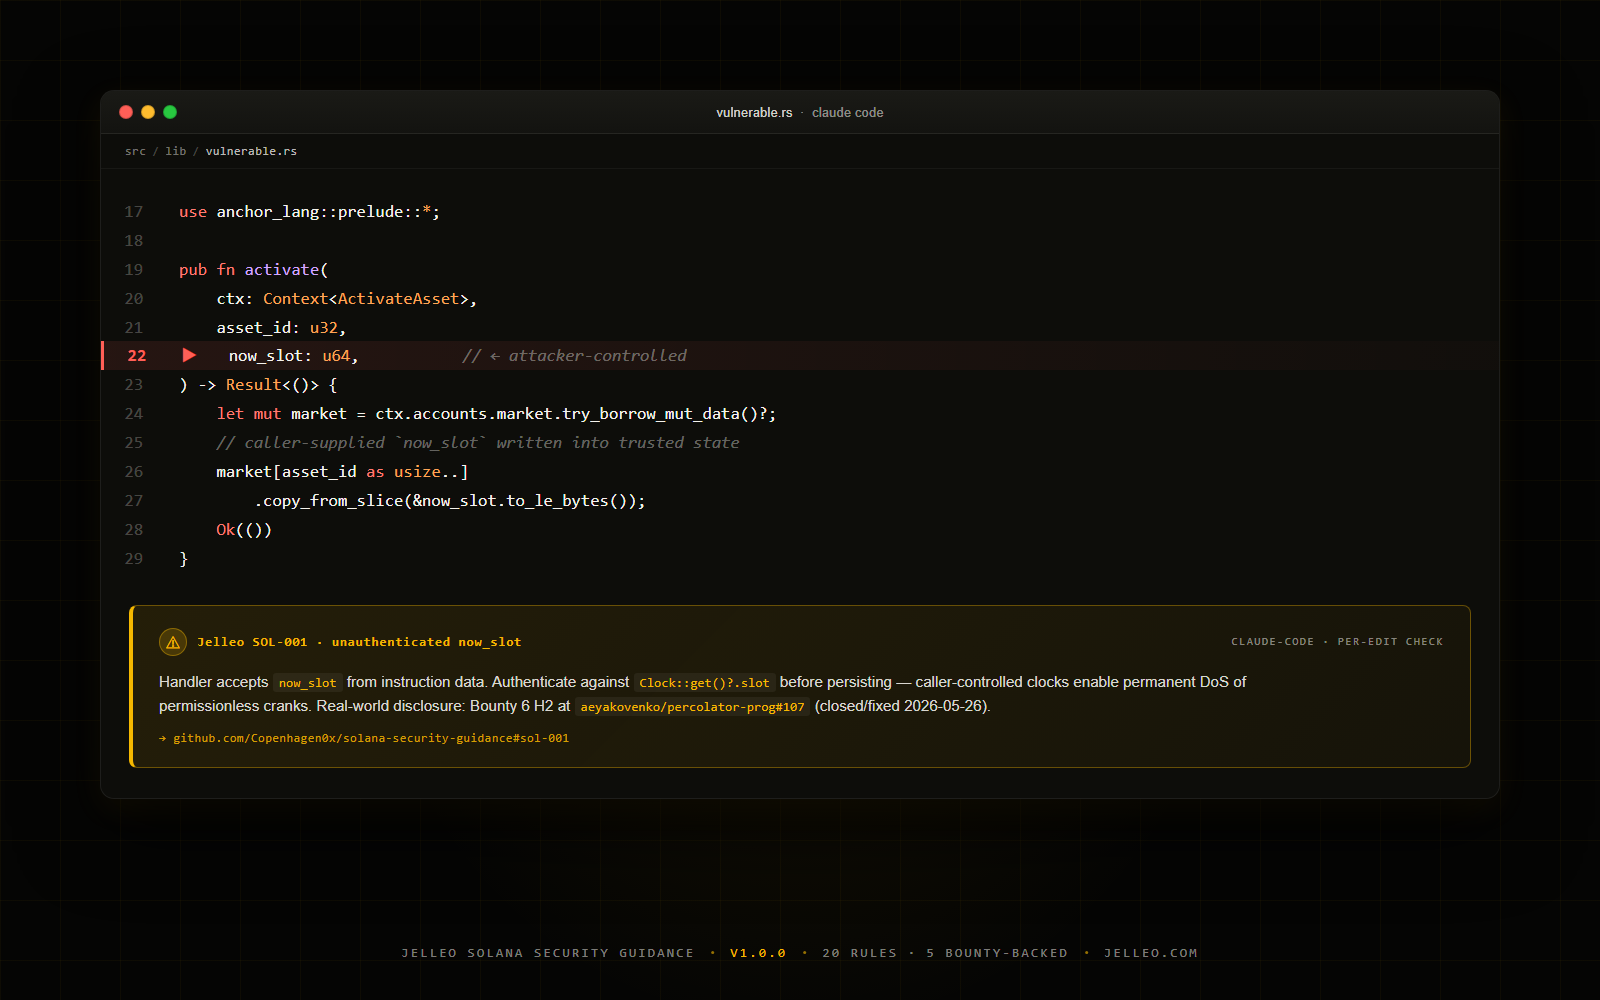
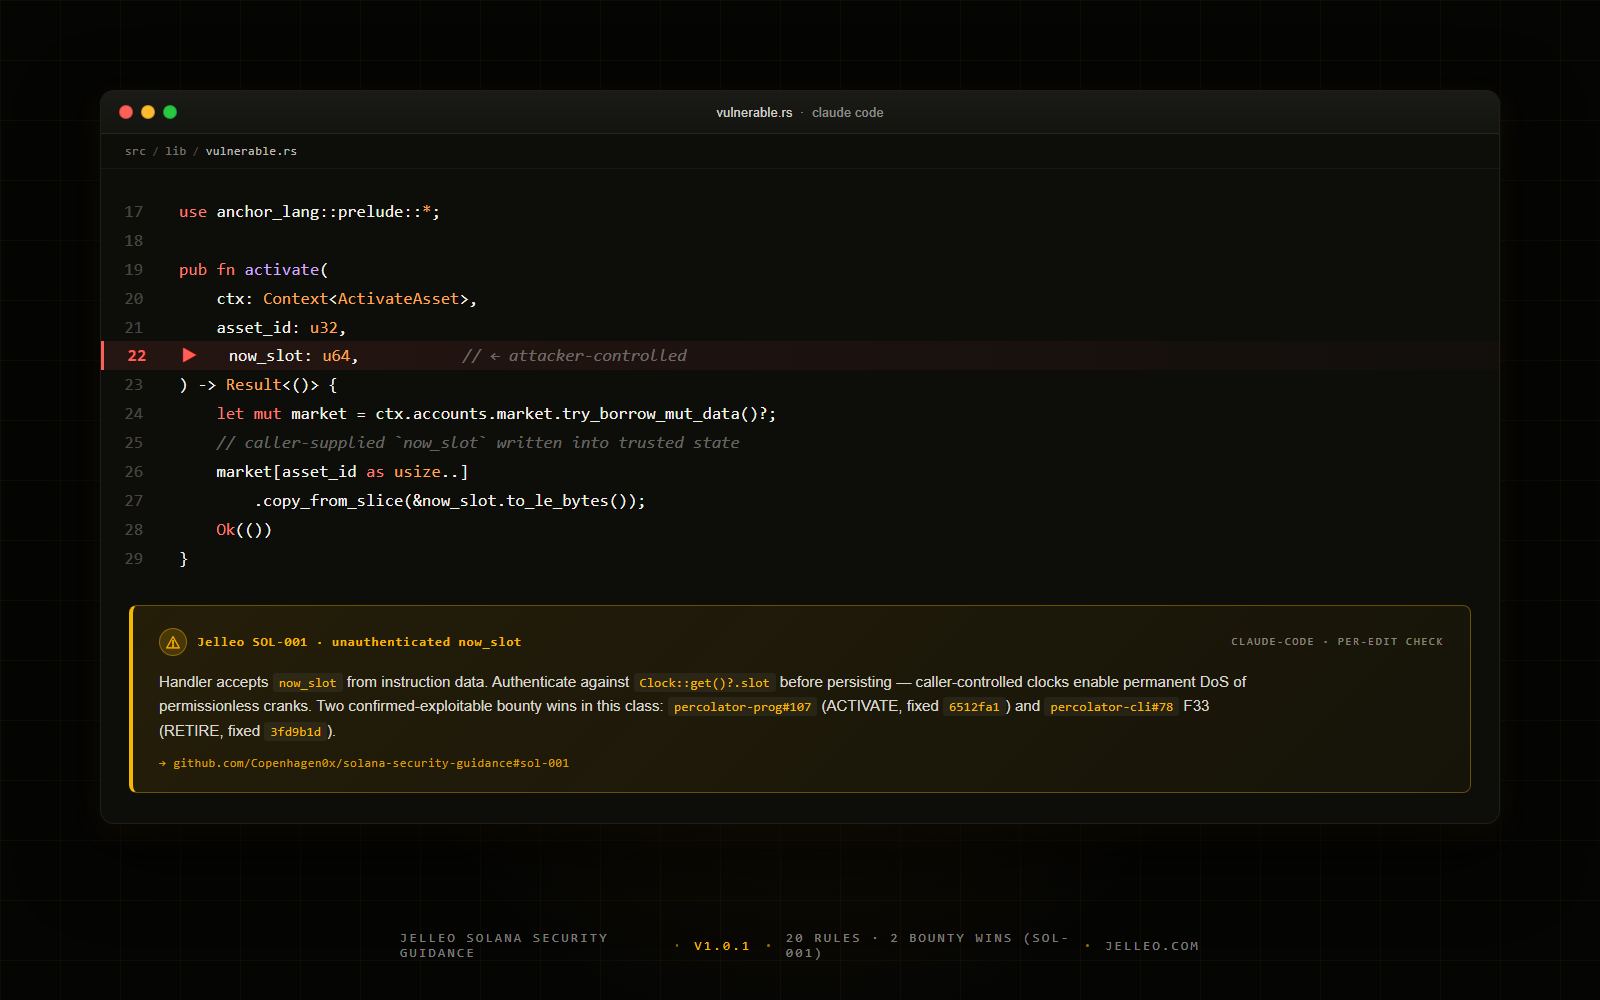
site: honest-provenance correction after Toly's #78 triage
Toly closed percolator-cli#78 on 2026-05-26T01:24Z with detailed triage.
1 of 36 confirmed-exploitable (F33, same class as #107 — SOL-001).
Others were already-fixed-in-flight (F1), engine-side (F2), or latent (F12).

Updated:
- guidance.html: rule table source column reflects triage outcomes
- guidance.html: Why-these-rules section rewritten with honest provenance
- guidance.html: KPI strip — '5 backed' → '2 confirmed bounty wins'
- guidance.html: install URL bumped from v1.0.0 → v1.0.1
- guidance.html: version stamp + nav status to v1.0.1
- guidance.html: hero lede dropped 'All 20 rules drawn from real disclosed
  bounty findings' (was over-claiming)
- methodology.html: cross-link callout updated similarly
- og-guidance.png + guidance-hero.png: regenerated demo now shows BOTH bounty
  wins (#107 ACTIVATE + #78 F33 RETIRE) instead of only #107

diff --git a/website/deploy/guidance.html b/website/deploy/guidance.html
@@ -163,7 +163,7 @@ code { font-family: var(--mono); font-size: 0.92em; }
   <div class="nav-right">
     <span class="nav-status">
       <span class="live-dot"></span>
-      Guidance · v1.0 · public
+      Guidance · v1.0.1 · public
     </span>
     <a href="/customer/" class="nav-portal">Customer portal</a>
     <a href="/integrate/" class="nav-cta">Request integration</a>
@@ -190,9 +190,9 @@ code { font-family: var(--mono); font-size: 0.92em; }
   <span class="hero-bracket br"></span>
   <div class="container">
     <div data-reveal>
-      <div class="hero-eyebrow">Solana security guidance · v1.0 · for Claude Code</div>
+      <div class="hero-eyebrow">Solana security guidance · v1.0.1 · for Claude Code</div>
       <h1 class="hero-title">Catch Solana bugs <span class="accent">as you write them.</span></h1>
-      <p class="hero-lede">A drop-in security ruleset for Anthropic's <a href="https://code.claude.com/docs/en/security-guidance" target="_blank" rel="noopener">Claude Code security-guidance plugin</a>. Two files into your <code>.claude/</code> folder and your IDE flags Solana-specific bug classes while you code — caller-controlled clock values, cross-market state asymmetry, wrapper handlers that drift from engine logic, missing Anchor constraints, and 16 more. All 20 rules drawn from real disclosed bounty findings.</p>
+      <p class="hero-lede">A drop-in security ruleset for Anthropic's <a href="https://code.claude.com/docs/en/security-guidance" target="_blank" rel="noopener">Claude Code security-guidance plugin</a>. Two files into your <code>.claude/</code> folder and your IDE flags Solana-specific bug classes while you code — caller-controlled clock values, cross-market state asymmetry, wrapper handlers that drift from engine logic, missing Anchor constraints, and 16 more. SOL-001 covers two confirmed-exploitable bounty wins; the other 19 rules are documented Solana audit patterns.</p>
 
       <figure class="hero-demo" data-reveal data-delay="1" style="margin: 36px 0 8px; max-width: 1080px;">
         <img src="/guidance-hero.png"
@@ -207,9 +207,9 @@ code { font-family: var(--mono); font-size: 0.92em; }
       <div class="install-block" data-reveal data-delay="2">
         <div class="install-head">Install — 30 seconds</div>
         <div class="install-cmd" id="install-cmd">mkdir -p .claude && \
-  curl -sL https://raw.githubusercontent.com/Copenhagen0x/solana-security-guidance/v1.0.0/claude-security-guidance.md \
+  curl -sL https://raw.githubusercontent.com/Copenhagen0x/solana-security-guidance/v1.0.1/claude-security-guidance.md \
        -o .claude/claude-security-guidance.md && \
-  curl -sL https://raw.githubusercontent.com/Copenhagen0x/solana-security-guidance/v1.0.0/security-patterns.yaml \
+  curl -sL https://raw.githubusercontent.com/Copenhagen0x/solana-security-guidance/v1.0.1/security-patterns.yaml \
        -o .claude/security-patterns.yaml</div>
         <button class="copy-btn" onclick="copyInstall(this)">Copy</button>
         <div class="install-note">Then <code>/plugin install security-guidance@claude-plugins-official</code> + <code>/reload-plugins</code> in your Claude Code session. <a href="https://github.com/Copenhagen0x/solana-security-guidance" target="_blank" rel="noopener">Source · MIT licensed →</a></div>
@@ -217,8 +217,8 @@ code { font-family: var(--mono); font-size: 0.92em; }
 
       <div class="kpi-strip">
         <div class="kpi-cell"><div class="label">Rules</div><div class="value">20</div></div>
-        <div class="kpi-cell"><div class="label">Headline (bounty-backed)</div><div class="value">5</div></div>
-        <div class="kpi-cell"><div class="label">Disclosed findings</div><div class="value">38+</div></div>
+        <div class="kpi-cell"><div class="label">Confirmed bounty wins (SOL-001)</div><div class="value">2</div></div>
+        <div class="kpi-cell text"><div class="label">Maintainer-acknowledged</div><div class="value">Lean proofs</div></div>
         <div class="kpi-cell text"><div class="label">License</div><div class="value">MIT</div></div>
       </div>
 
@@ -264,16 +264,16 @@ code { font-family: var(--mono); font-size: 0.92em; }
     <div data-reveal>
       <div class="section-label">02 · The 20 rules</div>
       <h2 class="section-title">Solana bug classes the plugin will flag.</h2>
-      <p class="section-lede">5 headline rules trace to real published bounty findings. 15 generic rules cover the rest of the Solana attack surface — every common bug class an auditor checks for.</p>
+      <p class="section-lede">SOL-001 covers two confirmed-exploitable bounty wins. The other 19 rules are documented Solana audit patterns — some from our disclosures (with maintainer-triage classifications noted), some from public bug-class taxonomy.</p>
 
       <table class="rules-table">
         <thead><tr><th>ID</th><th>Catches</th><th>Source</th></tr></thead>
         <tbody>
-        <tr><td class="rule-id"><a href="https://github.com/Copenhagen0x/solana-security-guidance/blob/main/claude-security-guidance.md#sol-001--unauthenticated-now_slot" target="_blank" rel="noopener">SOL-001</a></td><td>Unauthenticated <code>now_slot</code> / clock spoofing</td><td class="rule-src headline">Bounty 6 H2</td></tr>
-        <tr><td class="rule-id"><a href="https://github.com/Copenhagen0x/solana-security-guidance/blob/main/claude-security-guidance.md#sol-002--cross-market-state-asymmetry" target="_blank" rel="noopener">SOL-002</a></td><td>Cross-market state asymmetry → counter inflation</td><td class="rule-src headline">Bounty 5 primary</td></tr>
-        <tr><td class="rule-id"><a href="https://github.com/Copenhagen0x/solana-security-guidance/blob/main/claude-security-guidance.md#sol-003--wrapper-re-implements-engine" target="_blank" rel="noopener">SOL-003</a></td><td>Wrapper handler re-implements engine logic</td><td class="rule-src headline">Bounty 5 F1</td></tr>
-        <tr><td class="rule-id"><a href="https://github.com/Copenhagen0x/solana-security-guidance/blob/main/claude-security-guidance.md#sol-004--penaltyhealth-terms-omitted" target="_blank" rel="noopener">SOL-004</a></td><td>Health/penalty terms omitted from calc</td><td class="rule-src headline">Bounty 5 F2</td></tr>
-        <tr><td class="rule-id"><a href="https://github.com/Copenhagen0x/solana-security-guidance/blob/main/claude-security-guidance.md#sol-005--anchor-resize-without-checks" target="_blank" rel="noopener">SOL-005</a></td><td>Anchor <code>realloc()</code> without guards</td><td class="rule-src headline">Bounty 5 F12</td></tr>
+        <tr><td class="rule-id"><a href="https://github.com/Copenhagen0x/solana-security-guidance/blob/main/claude-security-guidance.md#sol-001--unauthenticated-now_slot" target="_blank" rel="noopener">SOL-001</a></td><td>Unauthenticated <code>now_slot</code> / clock spoofing</td><td class="rule-src headline">2 bounty wins · #107 + #78 F33</td></tr>
+        <tr><td class="rule-id"><a href="https://github.com/Copenhagen0x/solana-security-guidance/blob/main/claude-security-guidance.md#sol-002--cross-market-state-asymmetry" target="_blank" rel="noopener">SOL-002</a></td><td>Cross-market state asymmetry → counter inflation</td><td class="rule-src">Public class · #104</td></tr>
+        <tr><td class="rule-id"><a href="https://github.com/Copenhagen0x/solana-security-guidance/blob/main/claude-security-guidance.md#sol-003--wrapper-re-implements-engine" target="_blank" rel="noopener">SOL-003</a></td><td>Wrapper handler re-implements engine logic</td><td class="rule-src">Pattern · #78 F1 (fixed in-flight)</td></tr>
+        <tr><td class="rule-id"><a href="https://github.com/Copenhagen0x/solana-security-guidance/blob/main/claude-security-guidance.md#sol-004--penaltyhealth-terms-omitted" target="_blank" rel="noopener">SOL-004</a></td><td>Health/penalty terms omitted from calc</td><td class="rule-src">Pattern · #78 F2 (engine-side)</td></tr>
+        <tr><td class="rule-id"><a href="https://github.com/Copenhagen0x/solana-security-guidance/blob/main/claude-security-guidance.md#sol-005--anchor-resize-without-checks" target="_blank" rel="noopener">SOL-005</a></td><td>Anchor <code>realloc()</code> without guards</td><td class="rule-src">Latent · #78 F12</td></tr>
         <tr><td class="rule-id"><a href="https://github.com/Copenhagen0x/solana-security-guidance/blob/main/claude-security-guidance.md#sol-006--missing-signer-check" target="_blank" rel="noopener">SOL-006</a></td><td>Missing signer check on privileged handler</td><td class="rule-src">Generic Solana</td></tr>
         <tr><td class="rule-id"><a href="https://github.com/Copenhagen0x/solana-security-guidance/blob/main/claude-security-guidance.md#sol-007--missing-owner-verification" target="_blank" rel="noopener">SOL-007</a></td><td>Missing <code>account.owner == program_id</code> check</td><td class="rule-src">Generic Solana</td></tr>
         <tr><td class="rule-id"><a href="https://github.com/Copenhagen0x/solana-security-guidance/blob/main/claude-security-guidance.md#sol-008--unverified-pda" target="_blank" rel="noopener">SOL-008</a></td><td>Unverified PDA derivation</td><td class="rule-src">Generic Solana</td></tr>
@@ -322,20 +322,20 @@ code { font-family: var(--mono); font-size: 0.92em; }
   <div class="container">
     <div data-reveal>
       <div class="section-label">04 · Why these rules</div>
-      <h2 class="section-title">Drawn from real disclosed bounty findings.</h2>
-      <p class="section-lede">Each headline rule traces to a bug we found and disclosed. Not heuristics from a checklist — patterns from production exploits.</p>
+      <h2 class="section-title">Honest provenance.</h2>
+      <p class="section-lede">SOL-001 covers two confirmed-exploitable bounty wins. The rest are documented Solana patterns — some surfaced in our disclosures and classified by the maintainer as already-fixed, engine-side, or latent. We list both kinds because all are real attack surfaces, but we don't claim bounty credit we didn't earn.</p>
 
       <ul>
-        <li><strong>SOL-001</strong> · Bounty 6 H2 — <a href="https://github.com/aeyakovenko/percolator-prog/issues/107" target="_blank" rel="noopener">percolator-prog#107</a>. Filed 2026-05-26, accepted + fixed by Toly the same day. Our suggested patch (<code>authenticated_slot_or_fallback</code>) shipped verbatim.</li>
-        <li><strong>SOL-002</strong> · The cross-market <code>pnl_pos_bound_tot</code> inflation class that drained the insurance fund 50025 → 25 atoms (Bounty 5 primary class).</li>
-        <li><strong>SOL-003</strong> · Bounty 5 F1 (Critical) — wrapper's <code>handle_close_resolved</code> re-implemented close inline. Filed at <a href="https://github.com/aeyakovenko/percolator-cli/issues/78" target="_blank" rel="noopener">percolator-cli#78</a>.</li>
-        <li><strong>SOL-004</strong> · Bounty 5 F2 (Critical) — health certificate omitted 9 spec-mandated penalty terms. percolator-cli#78.</li>
-        <li><strong>SOL-005</strong> · Bounty 5 F12 — anchor account resize without owner / size / rent guards. percolator-cli#78.</li>
+        <li><strong>SOL-001 · Two confirmed-exploitable bounty wins, same class.</strong> ACTIVATE branch at <a href="https://github.com/aeyakovenko/percolator-prog/issues/107" target="_blank" rel="noopener">percolator-prog#107</a> (fixed in <code>6512fa1</code>). RETIRE branch at <a href="https://github.com/aeyakovenko/percolator-cli/issues/78" target="_blank" rel="noopener">percolator-cli#78 F33</a> (fixed in <code>3fd9b1d</code>). Both maintainer-acknowledged via Lean theorem-prover models. Our suggested <code>authenticated_slot_or_fallback</code> patch shipped verbatim.</li>
+        <li><strong>SOL-002 · Public class, not our bounty.</strong> The cross-market <code>pnl_pos_bound_tot</code> inflation class was publicly disclosed at <a href="https://github.com/aeyakovenko/percolator-prog/issues/104" target="_blank" rel="noopener">percolator-prog#104</a> by another researcher. Included because the pattern is reproducible across perp-DEX programs.</li>
+        <li><strong>SOL-003 · Pattern from our bounty 5 disclosure.</strong> F1 was in our <a href="https://github.com/aeyakovenko/percolator-cli/issues/78" target="_blank" rel="noopener">#78</a> submission. Maintainer triage: F1 was independently fixed in <code>0925ed4</code> before our submission was triaged. Real pattern, not a paid bounty.</li>
+        <li><strong>SOL-004 · Pattern from our bounty 5 disclosure.</strong> F2 in <a href="https://github.com/aeyakovenko/percolator-cli/issues/78" target="_blank" rel="noopener">#78</a>. Maintainer classified as engine-side, not reproduced at the wrapper layer; separate disclosure pending at <code>aeyakovenko/percolator</code>.</li>
+        <li><strong>SOL-005 · Latent pattern from our bounty 5 disclosure.</strong> F12 in <a href="https://github.com/aeyakovenko/percolator-cli/issues/78" target="_blank" rel="noopener">#78</a>. Maintainer classified as latent — reachable only when the per-program 14-asset cap is lifted.</li>
       </ul>
 
       <p>All published cycle reports with PoCs, LiteSVM tests, Kani proofs, and Ed25519 signatures: <a href="/cycles/">/cycles</a>.</p>
 
-      <p>The 15 generic rules cover the rest of the Solana attack surface — every common bug class an auditor checks for. Together they give the Claude Code plugin enough Solana-specific context to catch issues before they reach a pull request.</p>
+      <p>The remaining 15 rules (SOL-006 through SOL-020) cover documented Solana audit patterns — signer/owner/PDA verification, Anchor constraints, CPI authority, lamport drains, Token Program ID confusion, integer overflow, etc. Standard auditor checklist territory.</p>
     </div>
   </div>
 </section>
@@ -421,7 +421,7 @@ code { font-family: var(--mono); font-size: 0.92em; }
     </div>
     <div class="footer-bottom">
       <span>© 2026 Jelleo · Apache-2.0 (platform) · MIT (guidance ruleset)</span>
-      <span>v1.0 · Guidance v1.0.0 · 2026-05-26</span>
+      <span>Guidance v1.0.1 · 2026-05-26 (honest-provenance correction)</span>
     </div>
   </div>
 </footer>

diff --git a/website/deploy/methodology.html b/website/deploy/methodology.html
@@ -367,7 +367,7 @@ small, .small { font-size: 12px; color: var(--ink-3); }
 
     <div class="callout" data-reveal data-delay="4" style="margin-top: 40px; max-width: 80ch;">
       <span class="label">Shift-left distribution</span>
-      <p style="margin-top: 10px;">The same bug-class work also lands in your developers' IDEs. Jelleo maintains a public <a href="/guidance">Solana Security Guidance</a> ruleset for Anthropic's <a href="https://code.claude.com/docs/en/security-guidance" target="_blank" rel="noopener">Claude Code security-guidance plugin</a> — 20 rules, 5 backed by disclosed bounty findings, drop two files into <code>.claude/</code> and the plugin flags Solana-specific bug classes as your team writes code. MIT licensed at <a href="https://github.com/Copenhagen0x/solana-security-guidance" target="_blank" rel="noopener">github.com/Copenhagen0x/solana-security-guidance</a>.</p>
+      <p style="margin-top: 10px;">The same bug-class work also lands in your developers' IDEs. Jelleo maintains a public <a href="/guidance">Solana Security Guidance</a> ruleset for Anthropic's <a href="https://code.claude.com/docs/en/security-guidance" target="_blank" rel="noopener">Claude Code security-guidance plugin</a> — 20 rules total, headline rule SOL-001 covers two confirmed-exploitable bounty wins. Drop two files into <code>.claude/</code> and the plugin flags Solana-specific bug classes as your team writes code. MIT licensed at <a href="https://github.com/Copenhagen0x/solana-security-guidance" target="_blank" rel="noopener">github.com/Copenhagen0x/solana-security-guidance</a>.</p>
     </div>
   </div>
 </section>
